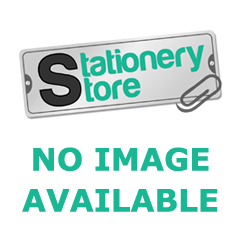
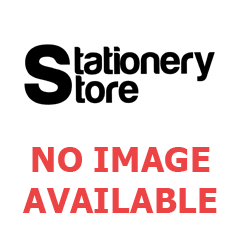
Add styles to checkout and add images for not image

diff --git a/app/assets/stylesheets/styles.css b/app/assets/stylesheets/styles.css
@@ -2899,46 +2899,108 @@ body{
 	FIELDSET#order_summary{
 		border:none;
 		}
-		#order_summary #order{
+		FIELDSET#order_summary #order{
 			float:left;
 		    margin:0;
 		    width:100%;
 			}
-			#order_summary .steps-data{
+			FIELDSET#order_summary .steps-data{
 				float: left;
 				width: 100%;
 				}
-				#order_summary .steps-data DIV.columns{
+				FIELDSET#order_summary .steps-data DIV.columns{
 					border:1px solid #dddddd;
 				    float:left;
-				    margin:0 0.5em 0.5em 0.5em;
+				    margin:0 0.5em 1.2em 0.5em;
 				    padding:0;
 				    width:46.95%;
 					}
-					#order_summary .steps-data DIV.columns H6,
-					#order_summary .steps-data DIV.columns .address,
-					#order_summary .steps-data DIV.columns .delivery,
-					#order_summary .steps-data DIV.columns .payment-info{
+					FIELDSET#order_summary .steps-data DIV.columns H6,
+					FIELDSET#order_summary .steps-data DIV.columns .address,
+					FIELDSET#order_summary .steps-data DIV.columns .delivery,
+					FIELDSET#order_summary .steps-data DIV.columns .payment-info{
 						float:left;
+						min-height:10em;
 					    padding:0 1em;
 					    width:96%;
 						}					
-					#order_summary .steps-data DIV.columns DIV IMG{
+					FIELDSET#order_summary .steps-data DIV.columns DIV IMG{
 					    width:auto;
 						}
-					#order_summary .steps-data DIV.columns H6{
+					FIELDSET#order_summary .steps-data DIV.columns DIV > DIV{
+					    color:#252525;
+					    font-family:Verdana,helvetica,sans-serif;
+    					font-size:0.9em;
+						}
+						FIELDSET#order_summary .steps-data DIV.columns DIV > DIV DIV,
+						FIELDSET#order_summary .steps-data DIV.columns DIV > DIV SPAN{
+	    					font-size:1em;
+							}
+					FIELDSET#order_summary .steps-data DIV.columns H6{
+						background:#fafafa;
 						color:#252525;
 					    font-family:Verdana,helvetica,sans-serif;
 					    font-size:0.75em;
+					    padding:0.45em 1em;
 					    width:96.9%;
 						}
-					#order_summary .steps-data DIV.columns .address,
-					#order_summary .steps-data DIV.columns .delivery,
-					#order_summary .steps-data DIV.columns .payment-info{
+					FIELDSET#order_summary .steps-data DIV.columns .address,
+					FIELDSET#order_summary .steps-data DIV.columns .delivery,
+					FIELDSET#order_summary .steps-data DIV.columns .payment-info{
 						float:left;
 					    padding:0 1em;
 					    width:94.2%;
 						}
+			FIELDSET#order_summary #line-items{
+				border:1px solid #dddddd;
+				float:left;
+				width:99.9%;
+				}
+				FIELDSET#order_summary #line-items THEAD TH{
+					font-family:Verdana,helvetica,sans-serif;
+					font-size:0.75em;
+					}
+				FIELDSET#order_summary #line-items TBODY TD{
+					border:none;
+				    color:#252525;
+				    font-family:Verdana,helvetica,sans-serif;
+				    font-size:0.75em;
+				    text-transform:uppercase;
+					}
+					FIELDSET#order_summary #line-items TBODY TD H4{
+					    color:#252525;
+						}
+				FIELDSET#order_summary #line-items TBODY TD.price,
+				FIELDSET#order_summary #line-items TBODY TD.qty,
+				FIELDSET#order_summary #line-items TBODY TD.total,
+				FIELDSET#order_summary #line-items TFOOT#order-total TD,
+				FIELDSET#order_summary #line-items TFOOT#subtotal TD{
+				    color:#777777;
+				    font-weight:normal;
+				    font-size:0.8em;
+				    text-align:right;
+					}
+					FIELDSET#order_summary #line-items TBODY TD.price SPAN,
+					FIELDSET#order_summary #line-items TBODY TD.total SPAN,
+					FIELDSET#order_summary #line-items TFOOT#order-total TD SPAN,
+					FIELDSET#order_summary #line-items TFOOT#subtotal TD SPAN,
+					FIELDSET#order_summary #line-items TFOOT#tax-adjustments TD SPAN,
+					FIELDSET#order_summary #line-items TFOOT#shipment-total TD SPAN,
+					FIELDSET#order_summary #line-items TFOOT#order-charges TD SPAN{
+					    color:#777777;
+					    font-family:Verdana,helvetica,sans-serif;
+					    font-size:1em;
+					    font-weight:normal;
+						}
+				FIELDSET#order_summary #line-items TBODY TD.qty,
+				FIELDSET#order_summary #line-items TBODY TD.total,
+				FIELDSET#order_summary #line-items TFOOT#order-total TD,
+				FIELDSET#order_summary #line-items TFOOT#subtotal TD,
+				FIELDSET#order_summary #line-items TFOOT#tax-adjustments TD,
+				FIELDSET#order_summary #line-items TFOOT#shipment-total TD,
+				FIELDSET#order_summary #line-items TFOOT#order-charges TD{
+				    text-align:center;
+					}
 
 /* GOOGLE CHROME & SAFARI */
 @media screen and (-webkit-min-device-pixel-ratio:0){
